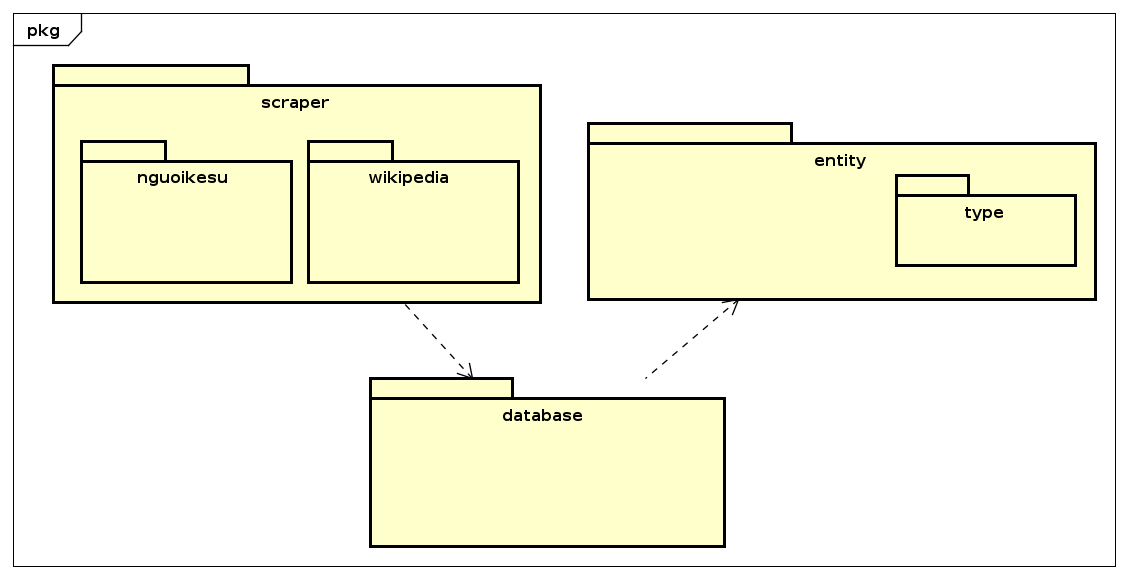
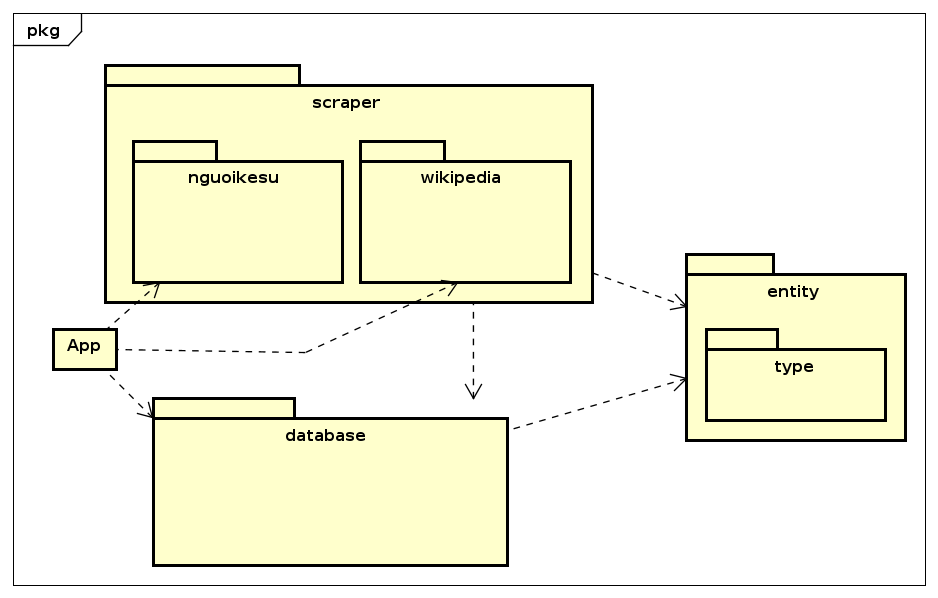
Added Design Analysis

diff --git a/README.md b/README.md
@@ -3,11 +3,11 @@
 ## 1. Quantity
 
 Entity | Quantity |
--------- | :--------: |
-Character | Cell |
-Festival | Cell |
-Reign |  |
-Historical Site |  |
+-------- |:--------:|
+Character |    1     |
+Festival |    1     |
+Reign |    1     |
+Historical Site |    1     |
 
 ## 2. Data Property
 
@@ -33,7 +33,11 @@ Historical Site |  |
 
 # III. Design Analysis
 
+![](UML/scrape_call.png)
 
+![](UML/simpledb.png)
+
+![](UML/scraper.png)
 
 # IV. Object-Oriented Programming Techniques
 
